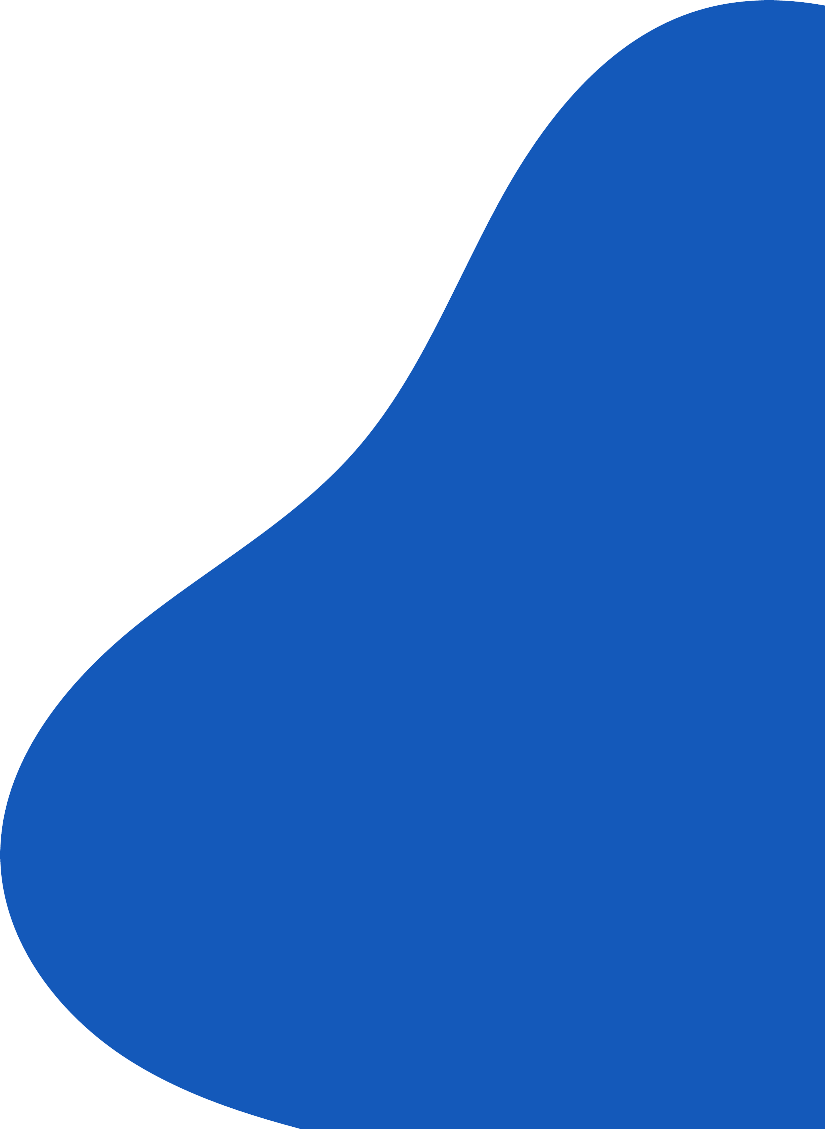
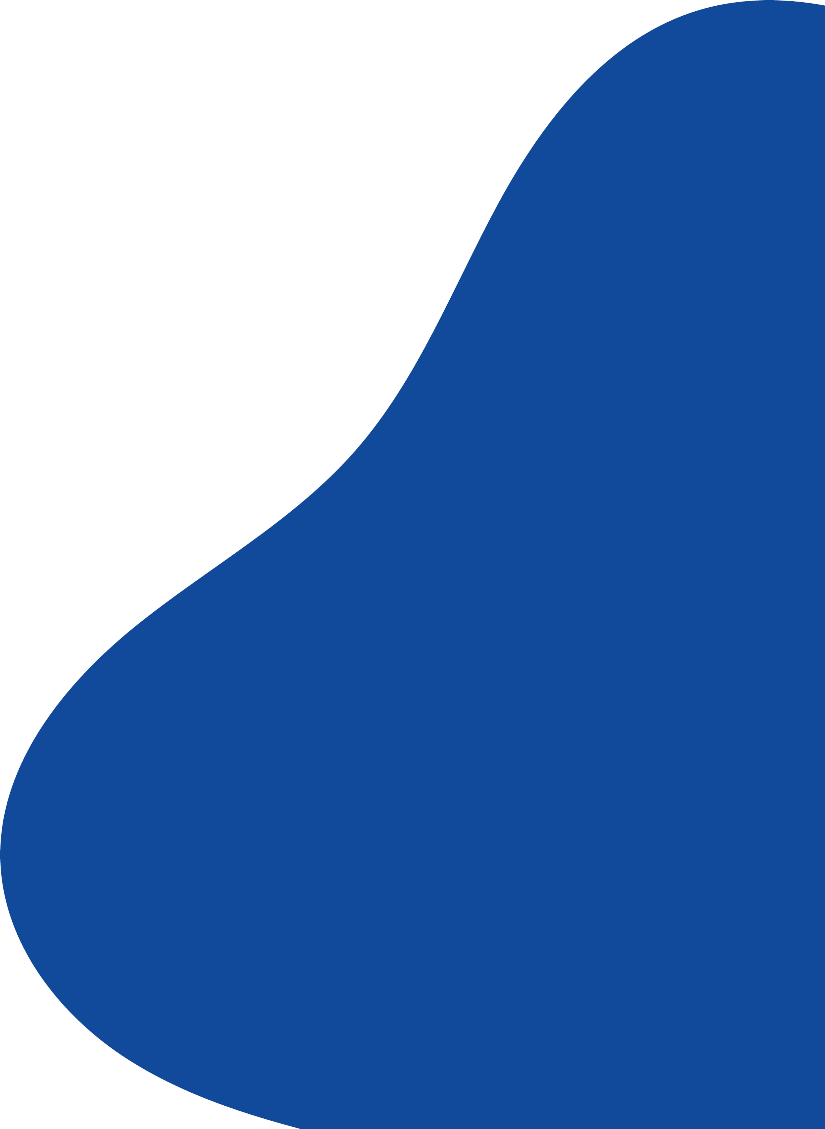
Backgroundimage issue fixed

diff --git a/skilledhyre/src/components/Services/Services.css b/skilledhyre/src/components/Services/Services.css
@@ -1,9 +1,10 @@
 /* Global styles for the services section */
 .services {
   background-image: url("../../images/services.png");
-  background-color: rgb(0, 73, 177, 1);
+  background-color: rgb(0, 73, 177);
   background-repeat: no-repeat;
   background-size: cover;
+  background-size: 65% auto;
 }
 
 /* Spacing adjustment */
@@ -107,105 +108,6 @@
   padding-top: 0px;
   margin-bottom: 20px;
 }
-
-/* Media Queries */
-
-/* Small screens (up to 767px) */
-/* @media (max-width: 767px) {
-  .services-header {
-    font-size: 12px;
-  }
-
-  .services-dot {
-    font-size: 20px;
-  }
-
-  .services-title {
-    font-size: 28px;
-    margin-bottom: 30px;
-  }
-
-  .services-card-row {
-    margin-left: 15px;
-    margin-right: 15px;
-  }
-
-  .services-card {
-    padding-left: 15px;
-    padding-right: 15px;
-    padding-top: 20px;
-    padding-bottom: 20px;
-  }
-
-  .services-card-title {
-    font-size: 18px;
-  }
-
-  .services-text {
-    font-size: 14px;
-  }
-
-  .services-card-icon {
-    font-size: 30px;
-  }
-} */
-
-/* Medium screens (768px to 991px) */
-/* @media (min-width: 768px) and (max-width: 991px) {
-  .services-header {
-    font-size: 13px;
-  }
-
-  .services-dot {
-    font-size: 22px;
-  }
-
-  .services-title {
-    font-size: 32px;
-    margin-bottom: 35px;
-  }
-
-  .services-card-row {
-    margin-left: 30px;
-    margin-right: 30px;
-  }
-
-  .services-card {
-    padding-left: 30px;
-    padding-right: 30px;
-    padding-top: 25px;
-    padding-bottom: 25px;
-  }
-
-  .services-card-title {
-    font-size: 20px;
-  }
-
-  .services-text {
-    font-size: 15px;
-  }
-
-  .services-card-icon {
-    font-size: 32px;
-  }
-} */
-
-/* Large screens (992px and up) */
-/* @media (min-width: 992px) {
-  .services-card-row {
-    margin-left: 60px;
-    margin-right: 60px;
-  }
-
-  .services-card {
-    padding-left: 50px;
-    padding-right: 50px;
-    padding-top: 30px;
-    padding-bottom: 30px;
-  }
-} */
-
-/* ======================= */
 
 /* Media Queries */
 

diff --git a/skilledhyre/src/components/ProcessDrivenSEO/ProcessDrivenSEO.css b/skilledhyre/src/components/ProcessDrivenSEO/ProcessDrivenSEO.css
@@ -267,9 +267,10 @@
 .mirror-image {
   background-image: url("../../images/mirror-image.png"),
     url("../../images/mirror-bottom.jpg"), url("../../images/seo-left.png");
-  background-color: rgba(30, 108, 218, 0.8);
+  background-color: #1458b9;
   background-repeat: no-repeat, no-repeat, no-repeat;
   background-attachment: scroll, scroll, scroll;
   background-position: right bottom, center bottom, 0 15%;
   background-size: 500px 700px, 1550px 200px, 160px 260px;
+  z-index: -1;
 }

diff --git a/skilledhyre/src/components/Home/Home.js b/skilledhyre/src/components/Home/Home.js
@@ -17,7 +17,7 @@ import "./Home.css";
 const Home = () => {
   return (
     <>
-      <div className="background-container">
+      <div className="background-container navbar-aboutus">
         <Navbar />
         <AboutUs />
       </div>

diff --git a/skilledhyre/src/components/Home/Home.css b/skilledhyre/src/components/Home/Home.css
@@ -4,4 +4,9 @@
   background-size: cover;
   background-repeat: no-repeat;
   background-position: center;
+  z-index: -1;
+}
+
+.navbar-aboutus {
+  background-color: rgb(20, 89, 186);
 }

diff --git a/skilledhyre/src/components/AboutUs/AboutUs.css b/skilledhyre/src/components/AboutUs/AboutUs.css
@@ -4,7 +4,6 @@
 
 /* Background color for the About Us section */
 .about-us {
-  background-color: rgb(0, 73, 177, 0.9);
   z-index: 1;
 }
 
